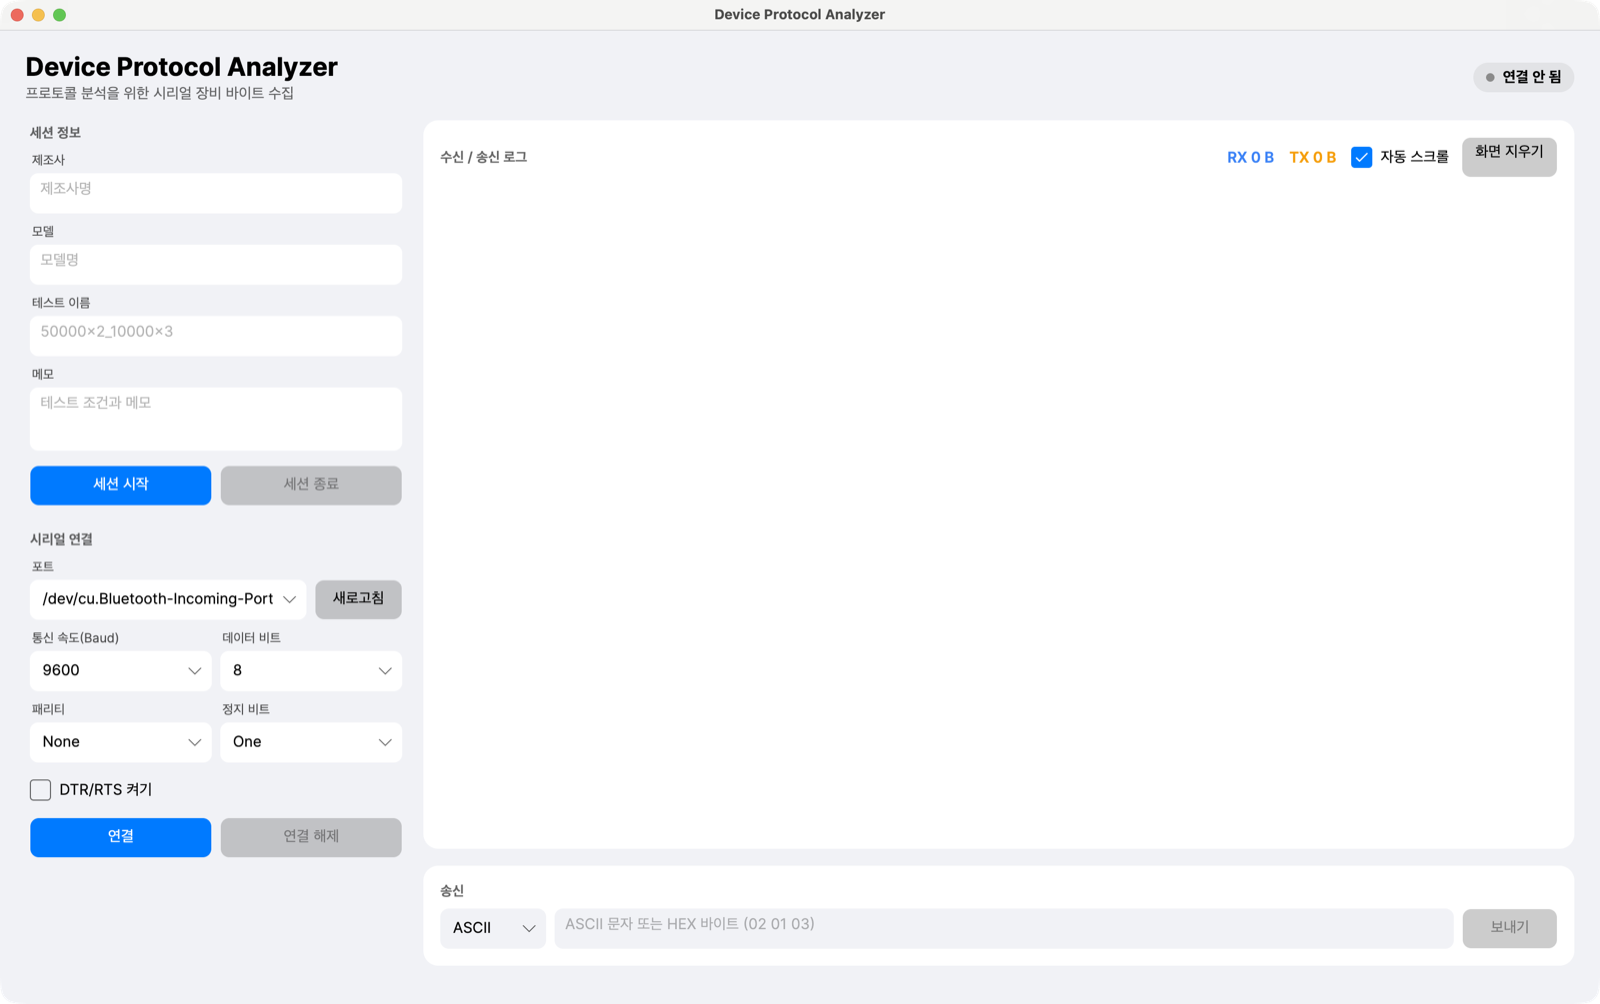
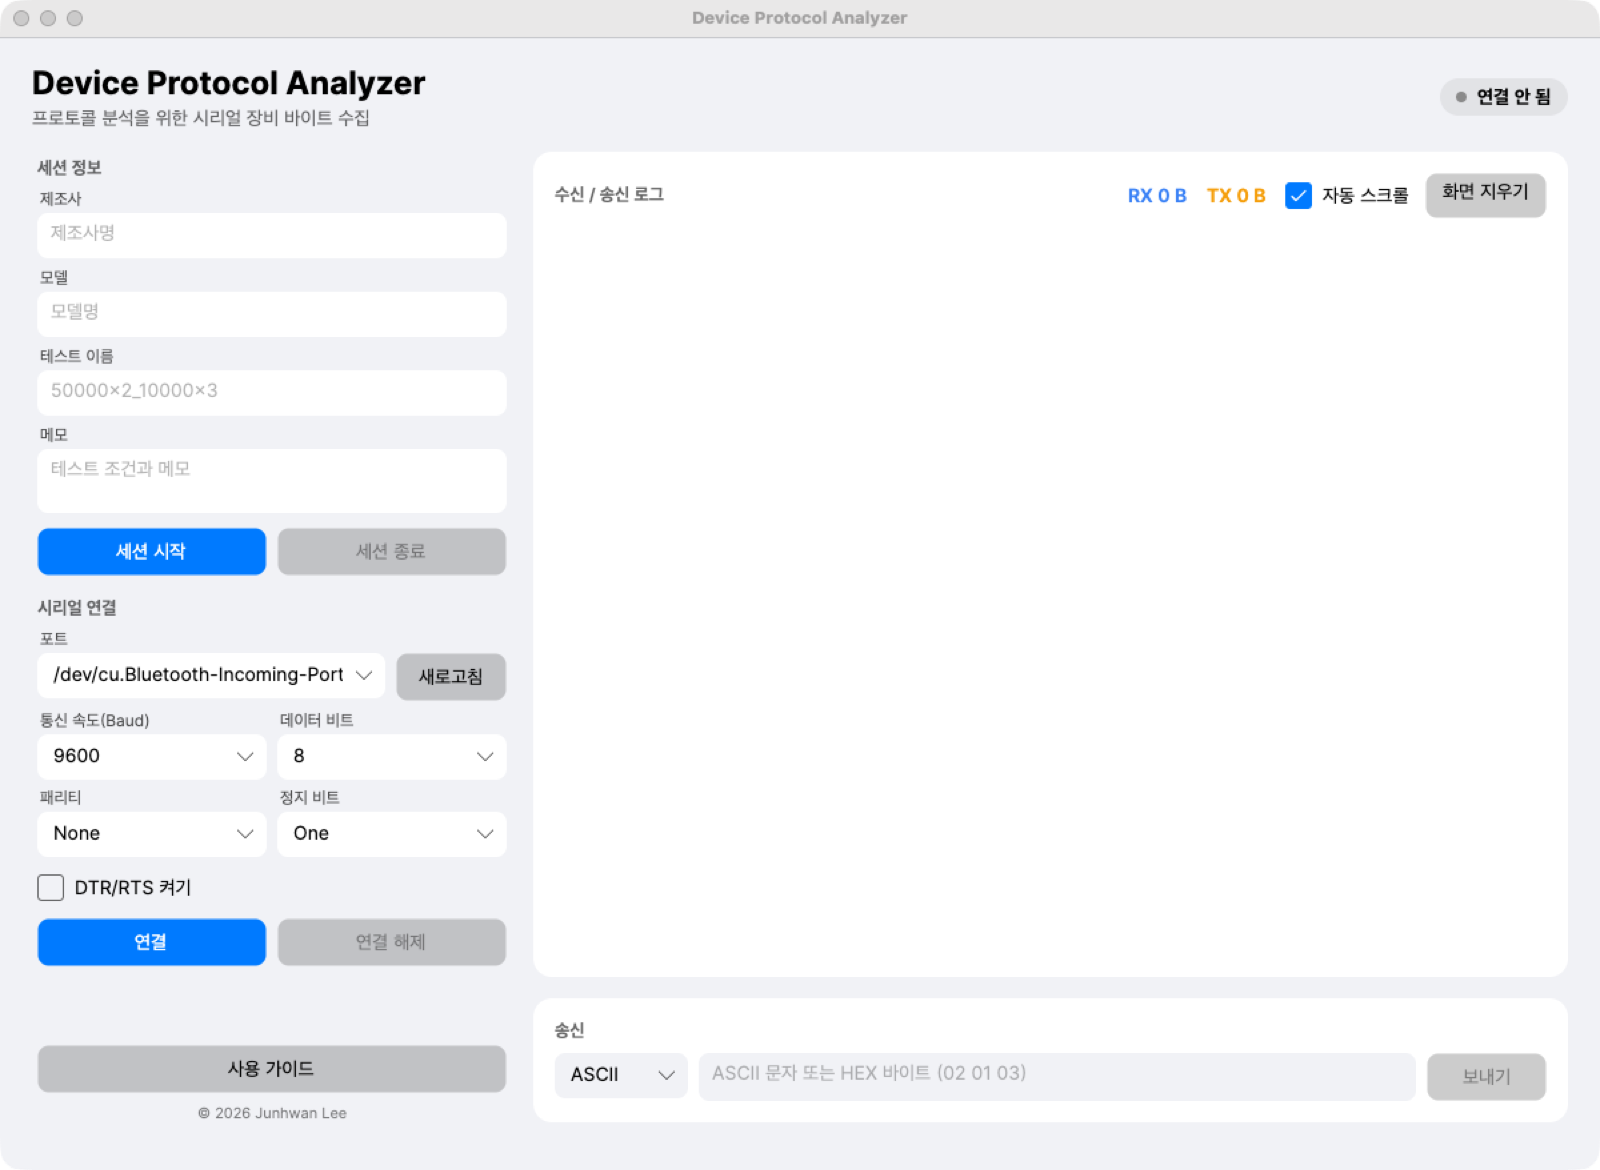
Update README for in-app guide and refresh screenshot
Documentation changes to match v0.2.0:
- replace screenshots/main.png with the current UI, showing the sidebar
  usage-guide button and the copyright footer
- note at the top of the usage section that the same steps are
  available in-app via the "사용 가이드" button
- use the labels shown in the UI (포트, 통신 속도(Baud), 데이터 비트,
  패리티, 정지 비트, 제조사, 모델, 테스트 이름, 메모, 송신 영역)
  instead of the English field names
- add a hint to step 4: enable "DTR/RTS 켜기" and reconnect if no data
  arrives (common with USB virtual COM devices)
- fix Korean particle typos ("새로고침로" -> "새로고침으로",
  "연결를" -> "연결을")
- point the download section at the latest release

No code changes.

diff --git a/README.md b/README.md
@@ -8,7 +8,7 @@
 
 ## 다운로드
 
-[Releases](../../releases)에서 운영체제에 맞는 zip을 받아 압축을 풀고 실행합니다. .NET 설치는 필요 없습니다.
+[Releases](../../releases)의 최신 버전에서 운영체제에 맞는 zip을 받아 압축을 풀고 실행합니다. .NET 설치는 필요 없습니다.
 
 - Windows x64: `DeviceProtocolAnalyzer-win-x64.zip` → `DeviceProtocolAnalyzer.exe`
 - macOS Apple Silicon: `DeviceProtocolAnalyzer-osx-arm64.zip` → 서명되지 않은 앱이라 처음에는 우클릭 → 열기로 실행합니다. 막히면 `xattr -cr <폴더>`를 실행하세요.
@@ -33,15 +33,17 @@ dotnet run
 
 ## 사용 방법
 
+프로그램 왼쪽 아래 **사용 가이드** 버튼에서 같은 내용을 앱 안에서도 볼 수 있습니다.
+
 1. 분석할 장비를 PC에 연결합니다.
 2. Windows에서는 Device Manager에서 COM Port와 USB-Serial 드라이버를 확인합니다.
-3. 프로그램을 실행하고 `새로고침`로 포트 목록을 갱신합니다.
-4. Port, Baud Rate, Data Bits, Parity, Stop Bits를 선택합니다.
-5. Manufacturer, Model, Test Name, Memo에 테스트 조건을 기록합니다.
+3. 프로그램을 실행하고 `새로고침`으로 포트 목록을 갱신합니다.
+4. 포트, 통신 속도(Baud), 데이터 비트, 패리티, 정지 비트를 선택합니다. 데이터가 안 들어오면 `DTR/RTS 켜기`를 체크해 다시 연결해 보세요.
+5. 제조사, 모델, 테스트 이름, 메모에 테스트 조건을 기록합니다.
 6. `세션 시작`을 누릅니다.
-7. `연결`를 누르고 장비에서 데이터가 송신되는 동작을 수행합니다.
+7. `연결`을 누르고 장비에서 데이터가 송신되는 동작을 수행합니다.
 8. RX 로그에서 Timestamp, 수신 바이트 수, HEX, ASCII 표현을 확인합니다.
-9. 장비가 Host 명령을 요구하면 Transmit에서 `ASCII` 또는 `HEX`를 선택해 송신합니다.
+9. 장비가 Host 명령을 요구하면 송신 영역에서 `ASCII` 또는 `HEX`를 선택해 송신합니다.
 10. `세션 종료` 후 세션 폴더의 파일을 보관합니다.
 
 `화면 지우기`은 화면에 표시된 RX/TX 목록만 지우며 저장된 파일은 삭제하지 않습니다. `자동 스크롤`을 끄면 실시간 수신 중에도 이전 로그를 확인할 수 있습니다.
